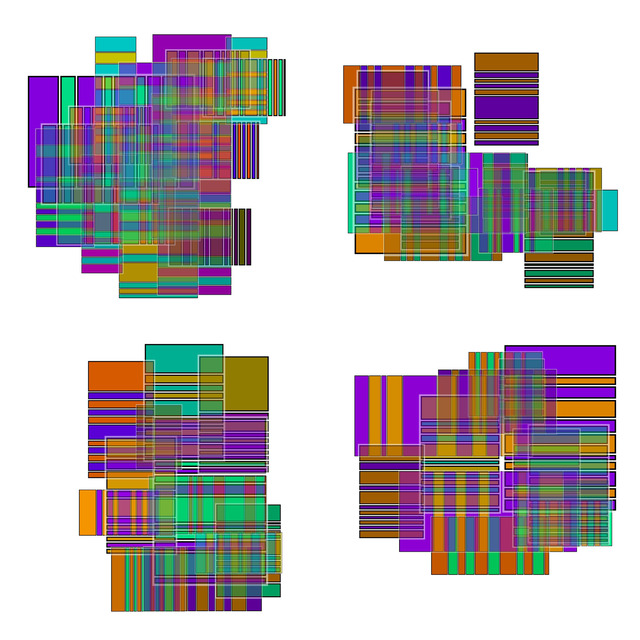
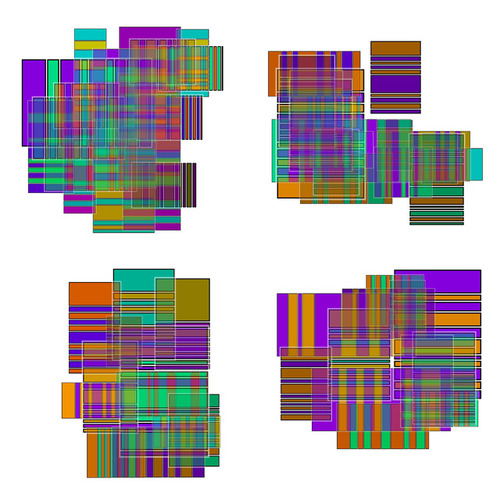
Uploading StockArt...

diff --git a/jan.12/stockart.py b/jan.12/stockart.py
@@ -1,0 +1,77 @@
+import json as js
+from alpha_vantage.timeseries import TimeSeries
+from alpha_vantage.techindicators import TechIndicators
+from matplotlib.pyplot import figure
+import matplotlib.pyplot as plt
+
+class StockArt():
+	"Generating art with data from stock market"
+
+	def __init__(self, configpath, alphakey):
+		self.config = js.load(open(configpath))
+		self.alphakey = alphakey
+		self.outPath = None
+		self.outFile = None
+		self.w = None
+		self.h = None
+		self.resolution = None
+		self.background = None
+		self.colormap = None
+		self.ts = TimeSeries(self.alphakey, output_format='pandas')
+		self.symbols = []
+		self.data = []
+		self.metadata = []
+		self.volume = None
+		StockArt.setConfig(self, self.config)
+		print(self)
+		StockArt.loadStockData(self.data, self.metadata, self.symbols, self.ts)
+		StockArt.scatterArtVol(self.w, self.h, self.resolution, self.background, self.colormap, self.data,
+								self.volume, self.outPath, self.outFile)
+
+	def scatterArtVol(w, h, resolution, background, colormap, dataframes, volume, path, filename):
+		print("-- extracting art from the data...", end="\r")
+		figure = plt.figure(num=None, figsize=(w, h), dpi=resolution, facecolor=background, edgecolor=background)
+		for s in range(len(dataframes)):
+			plt.scatter(x=dataframes[s].index, y=dataframes[s]['4. close'], s=dataframes[s]['5. volume'] / volume, \
+				c=dataframes[s]['4. close']-dataframes[s]['1. open'], cmap=colormap, marker="o")
+		ax = plt.gca()
+		ax.set_facecolor(background)
+		ax.axes.xaxis.set_visible(False)
+		ax.axes.yaxis.set_visible(False)
+		plt.tight_layout(rect=[0, 0, 1, 1])
+		print("-- art is ready!                     ", end="\n")
+		StockArt.saveArt(path + filename, figure)
+
+	def loadStockData(data, metadata, symbols, ts):
+		print("-- loading data from alphavantage...", end="\r")
+		for s in range(len(symbols)):
+			d, m = ts.get_daily(symbol=symbols[s])
+			data.append(d)
+			metadata.append(m)
+		print("-- data loaded!                       ", end="\n")
+
+	def setConfig(self, data):
+		self.outPath = data["outPath"]
+		self.outFile = data["outFile"]
+		self.w = data["width"]
+		self.h = data["height"]
+		self.resolution = data["resolution"]
+		self.background = StockArt.getBackground(data)
+		self.colormap = data["colormap"]
+		self.symbols = data["symbols"].split(",")
+		self.volume = data["VolumeDiv"]
+
+	def getBackground(data):
+		values = data["background"].split(",")
+		color = (float(values[0])/255,float(values[1])/255,float(values[2])/255)
+		return color
+
+	def saveArt(file, figure):
+		plt.savefig(file + ".png", facecolor=figure.get_facecolor(), bbox_inches='tight', pad_inches=1)
+		print("-- the image was saved!", end="\n")
+
+	def __str__(self):
+		return "-- stockart --\n" + \
+				"-- https://gitlab.com/rodrigovalla/genuary2021\n" + \
+				"-- version: 0.50\n" + \
+				"-- Some work to be part of #genuary2021"

diff --git a/README.md b/README.md
@@ -3,9 +3,9 @@
 Here I share some of the work I did to be part of [genuary 2021](htps://genuary2021.github.io). It is not all
 here because I used tools from other bigger (or not so bigger) projects.  
 
-### some good results
+## some good results
 
-#### Tribute to Mondrian
+### Tribute to Mondrian
 
 A little collaborative homage to the famous dutch painter [Piet Mondrian](https://en.wikipedia.org/wiki/Piet_Mondrian).
 A game was used to collect a set of *Mondrian's strips* which were blended in a canvas using *Interferative* tool from
@@ -15,7 +15,7 @@ A game was used to collect a set of *Mondrian's strips* which were blended in a 
 
 ![mondrian](https://gitlab.com/rodrigovalla/genuary2021/-/raw/master/assets/img/tributetomondrian.jpg)
 
-#### Dice lines
+### Dice lines
 
 The prompt for January 7th was: *generate some rules, then follow them by hand on paper*. I proposed this algorithm:
 

diff --git a/jan.12/README.md b/jan.12/README.md
@@ -1,0 +1,10 @@
+# Stock Art
+
+The January 12th prompt was about using an API. I decided to use data from the stock market through
+[Alpha Vantage API](https://www.alphavantage.co/). You need a free *api key* to use it. The code use
+*Matplotlib* library and take advantage of its colormaps.  
+
+![dicelines](https://gitlab.com/rodrigovalla/genuary2021/-/raw/master/assets/img/stockart.jpg)
+
+Feel free to contact me by [mail](mailto:rodrigovalla@protonmail.ch) or reach me in
+[telegram](https://t.me/rvalla) or [mastodon](https://fosstodon.org/@rvalla).
